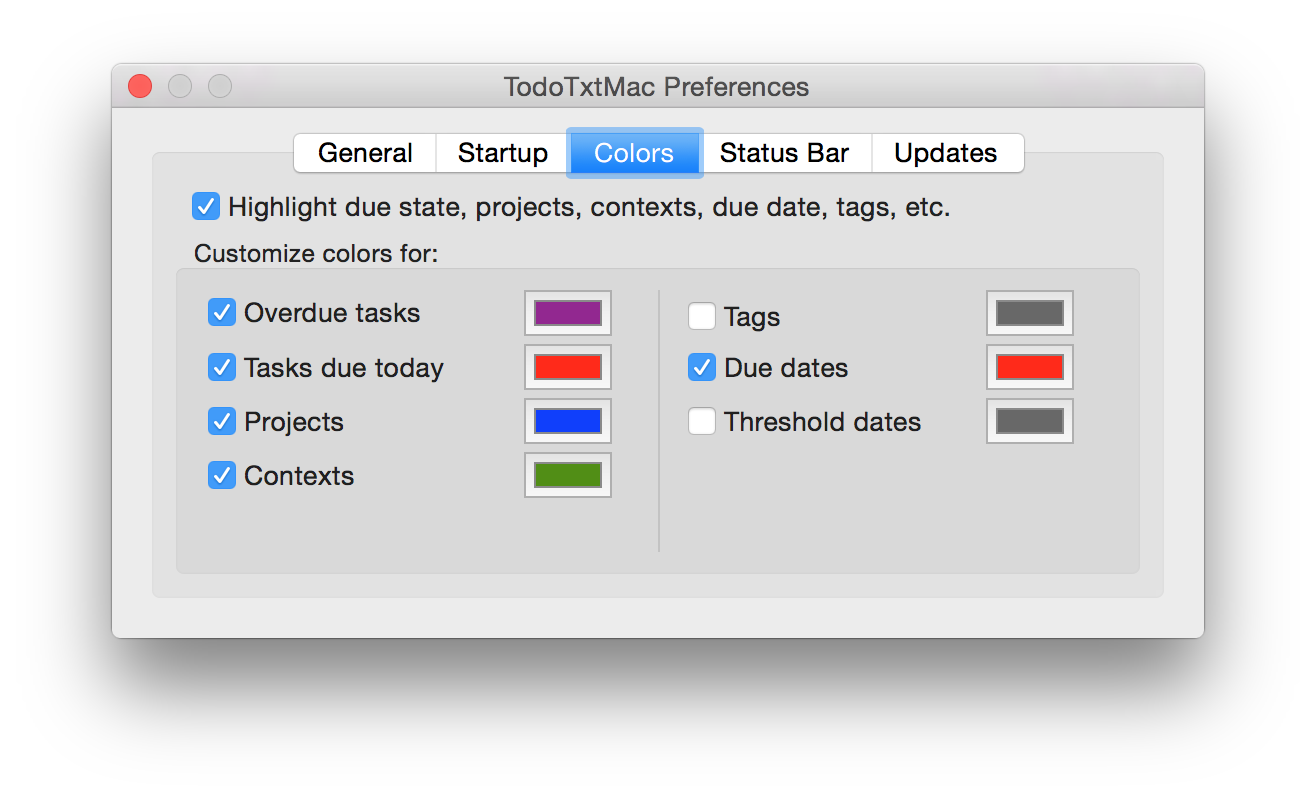
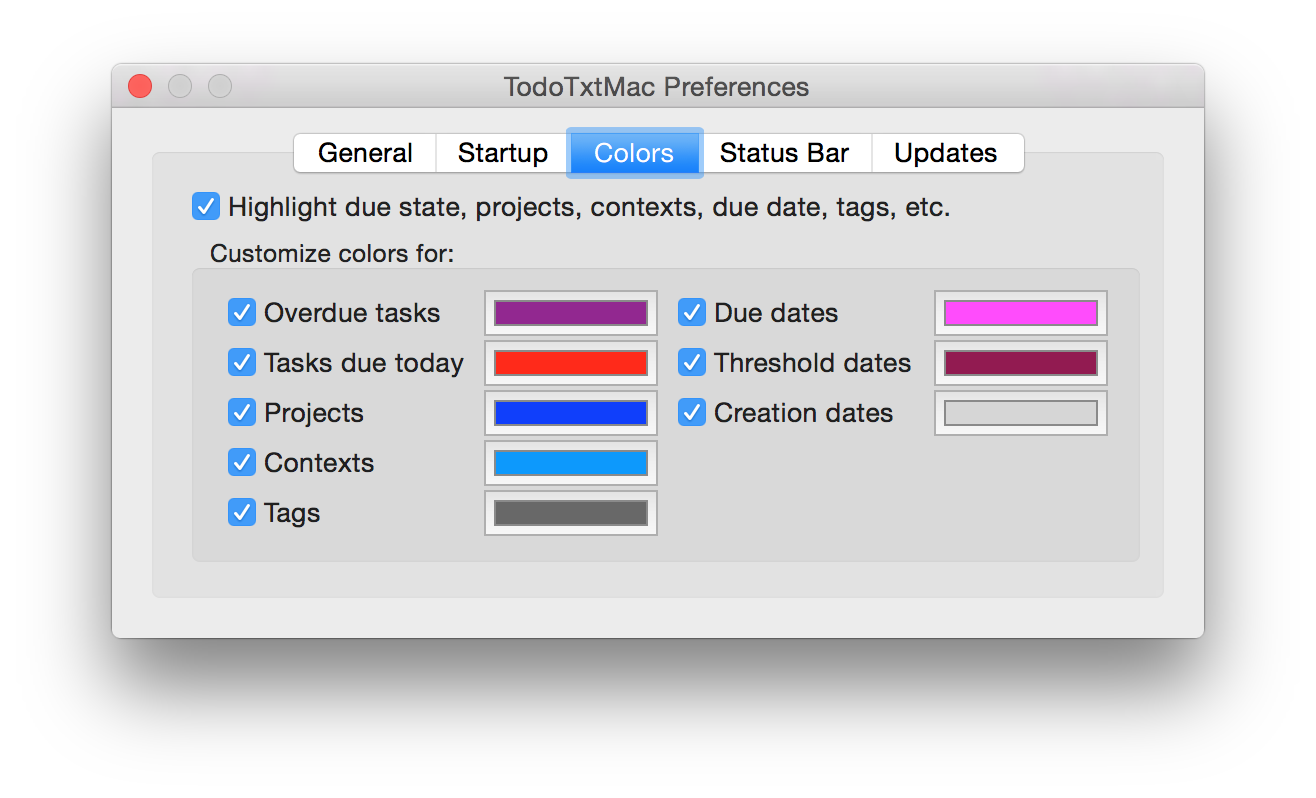
Updates for Version 1.5.0 release.

Changed region(s): [[0.1558, 0.3609, 0.8412, 0.6917], [0.1246, 0.3008, 0.3427, 0.3308]]

diff --git a/index.html b/index.html
@@ -113,6 +113,7 @@ TodoTxtMac is a minimalist, keyboard-driven to-do manager for Mac OS X that conf
 <li>Colors overdue tasks in purple and tasks due today in red. Both these colors are user customizable.</li>
 <li>Colors projects and contexts in dark gray in task list. Both these colors are user customizable.</li>
 <li>Colors threshold dates in the task list, with a user-customizable color.</li>
+<li>Colors completion dates in the task list, with a user-customizable color.</li>
 </ul>
 
 <h2><a name="mac-specific-user-interface-features" class="anchor" href="#mac-specific-user-interface-features"><span class="octicon octicon-link"></span></a>Mac-specific user interface features</h2>
@@ -139,6 +140,7 @@ TodoTxtMac is a minimalist, keyboard-driven to-do manager for Mac OS X that conf
 <li>U or Enter: update task</li>
 <li>P: postpone task by X (user-entered) days</li>
 <li>S: set due date</li>
+<li>Option+S: set threshold date</li>
 <li>I: set priority to user-entered value (A-Z)</li>
 <li>T: append text to end of selected tasks</li>
 <li>R: prepend text to beginning of selected tasks (after priority and creation date)</li>
@@ -254,13 +256,13 @@ $ open /Applications/TodoTxtMac.app --args -todo-file ~/Documents/todo.txt
 <h1>
 <a name="creditsthanks" class="anchor" href="#creditsthanks"><span class="octicon octicon-link"></span></a>Credits/Thanks</h1>
 
-<p>Thanks to Gina Tripani who created the <a href="http://www.todotxt.com">Todo.txt</a> format and the community of developers who created the command line tools and iOS/Android apps.</p>
+<p>Thanks to Gina Trapani who created the <a href="http://www.todotxt.com">Todo.txt</a> format and the community of developers who created the command line tools and iOS/Android apps.</p>
 
 <p>Thanks to Ben Hughes whose Windows application <a href="http://benrhughes.github.io/todotxt.net/">todotxt.net</a> formed the basis of this application's design and feature set. Todotxt.net is a fantastic program and did not have an analog on the Mac. After starting my application, I contributed some patches to todotxt.net and am happy to be a contributor on such a great project.</p>
 
 <p>Thanks to Josh Wright &lt;<a href="https://github.com/BendyTree" class="user-mention">@BendyTree</a>&gt; for his <a href="https://github.com/bendytree/Objective-C-RegEx-Categories">RegExCategories</a> library.</p>
 
-<p>Thanks to kuba for the image used as the icon. Image Credit: <a href="http://vector.me/browse/329308/ok_icon">OK Icon</a> from <a href="http://vector.me/">Vector.me</a> (by kuba).</p>
+<p>Thanks to Sam Daitzman &lt;<a href="https://github.com/sdaitzman" class="user-mention">@sdaitzman</a> for the application icon.</p>
 
 <p>Thanks to Andy Matuschak and the other contributors for the <a href="http://sparkle.andymatuschak.org/">Sparkle framework</a>.</p>
 

diff --git a/release-notes/release-notes-v1.5.0.html b/release-notes/release-notes-v1.5.0.html
@@ -1,0 +1,20 @@
+<!DOCTYPE html>
+<html class="no-js">
+    <head>
+        <meta charset="utf-8">
+        <title>TodoTxtMac | Release Notes - v1.5.0</title>
+        <meta name="description" content="TodoTxtMac release notes">
+        <meta name="viewport" content="width=device-width, initial-scale=1">
+    </head>
+    <body>
+        <h1>Version 1.5.0</h1>
+        <h2>Enhancements</h2>
+        <ul>
+            <li>Search box (Command+F) now operates on top of the applied filter preset, rather than replacing it.</li>
+            <li>Pasting tasks into the task list no longer removes the applied filter preset.</li>
+            <li>Added ability to customize colors of task creation dates (for incomplete tasks only).</li>
+            <li>Made task parsing more strictly follow todo.txt format specifications.</li>
+            <li>Improved layout of Preferences "Colors" tab.</li>
+        </ul>
+    </body>
+</html>
